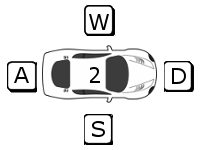
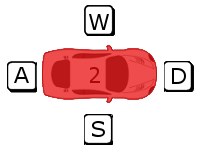
push final

Changed region(s): [[0.21, 0.2933, 0.81, 0.6933]]

diff --git a/SFML_Vroom/main.cpp b/SFML_Vroom/main.cpp
@@ -146,9 +146,6 @@ int main()
 		//Chargement de chaque joueurs
 		for (int i = 0; i < nbJoueurs; i++)
 		{
-			//Génère une couleure aléatoire pour chaque auto
-			joueurs[i].setCouleur(rand() % 25 * 10, rand() % 25 * 10, rand() % 25 * 10);
-
 			//Chargement de la texture pour l'auto spécifiée
 			textureCar.loadFromFile("car.png");
 			sprJoueur[i].setTexture(textureCar);
@@ -156,9 +153,11 @@ int main()
 			sprJoueur[i].setColor(Color(joueurs[i].getRed(), joueurs[i].getGreen(), joueurs[i].getBlue()));
 
 			//Initialisation automobile
-			sprJoueur[i].setPosition(900 + (100 * i), 100 );
+			sprJoueur[i].setPosition(900, 60 + (20 * i));
 			sprJoueur[i].rotate(joueurs[i].getDegreAuto());
 		}
+
+		joueurs[0].setCouleur(253, 167, 0);
 
 		while (jouer)	//Tant que le jeu roule
 		{
